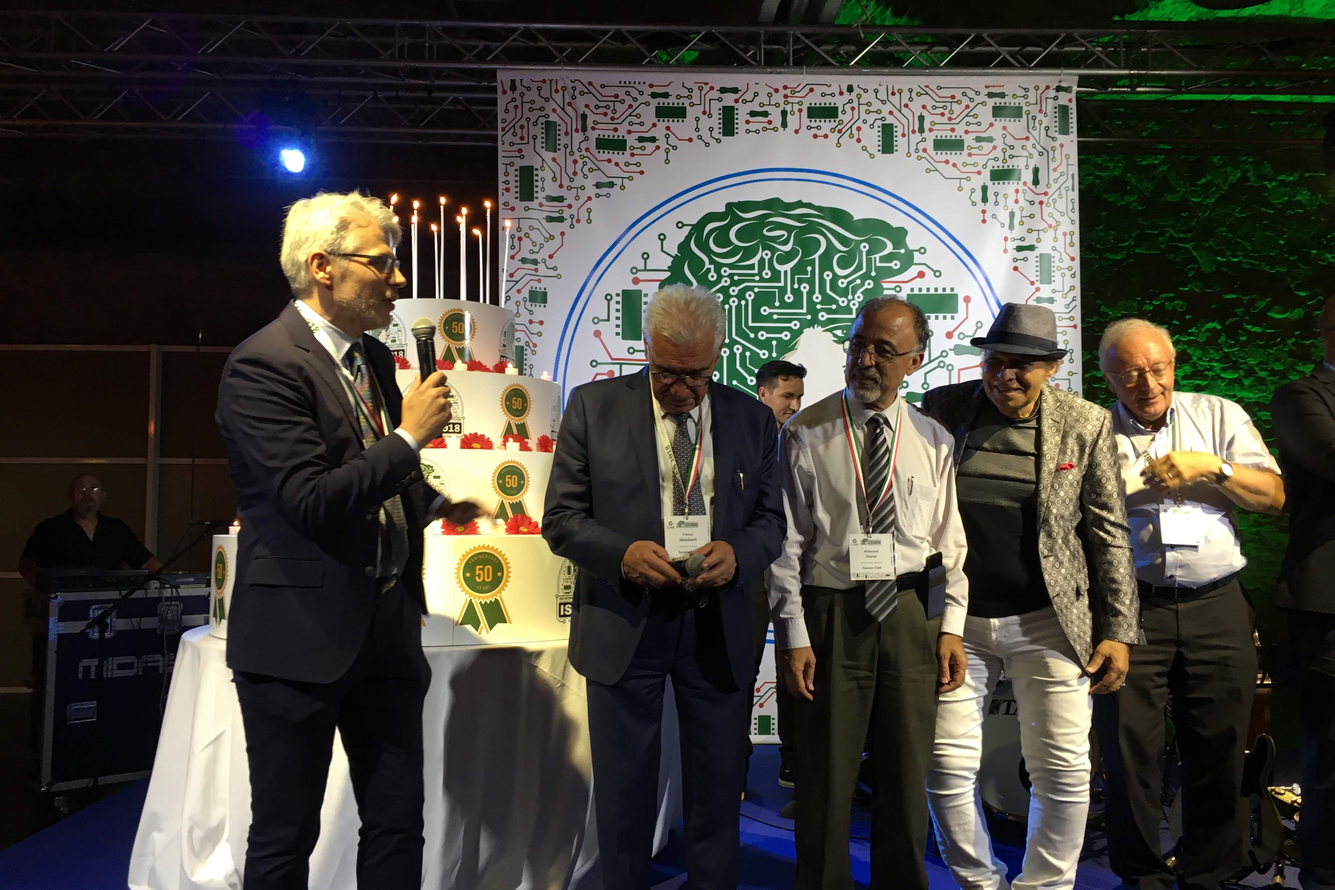
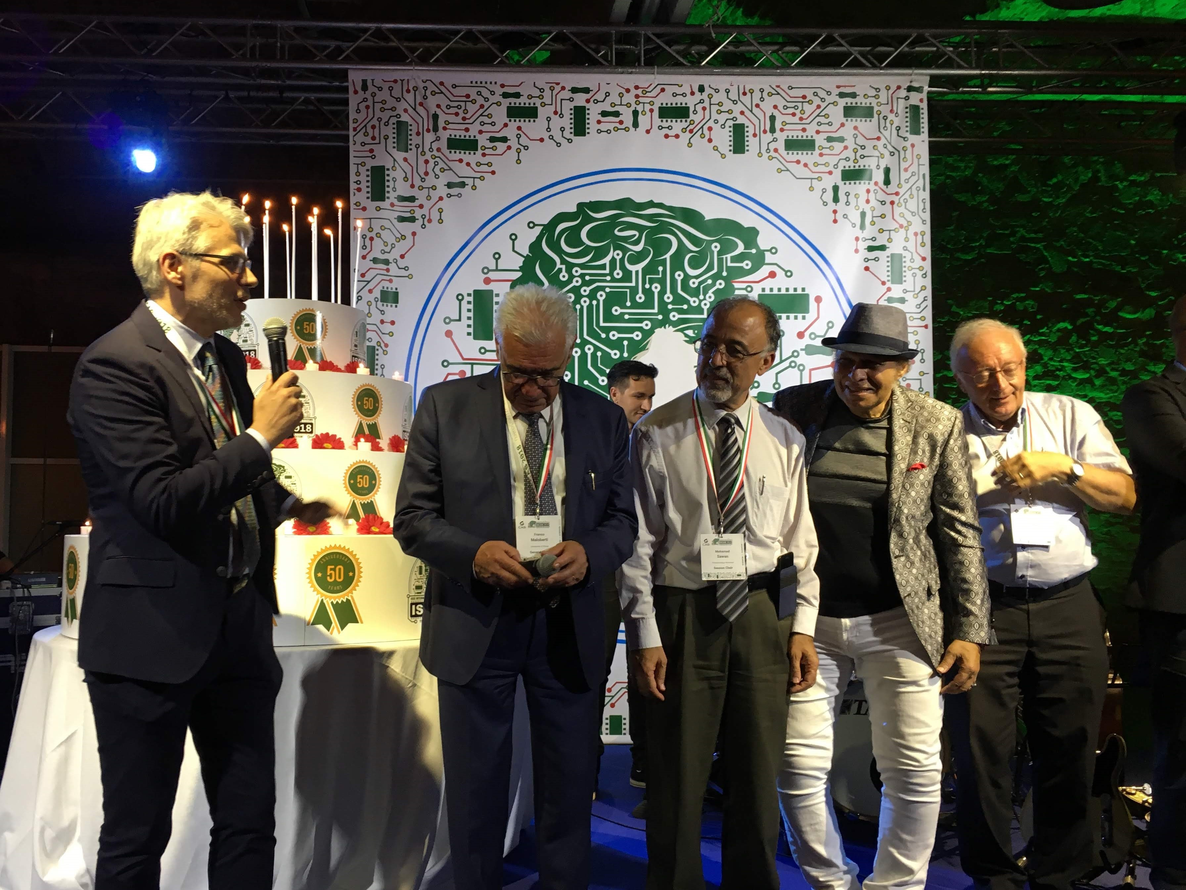
7327

diff --git a/index.html b/index.html
@@ -740,7 +740,7 @@ device. One effective way to eliminate the anonymity is to build a random oracle
 									<td><img src="images\gallery\IMG_73241.jpg"  width="250" height="188" onmouseover="mouseover(this)" onmouseout="mouseout(this)"/></td>
 									<td><img src="images\gallery\hhh.jpg"  width="250" height="188" onmouseover="mouseover(this)" onmouseout="mouseout(this)"/></td>
 									<td><img src="images\gallery\3mt_ntu11.jpg" width="250" height="188" onmouseover="mouseover(this)" onmouseout="mouseout(this)"/></td>
-									<td><img src="images\gallery\IMG_73241.jpg"  width="250" height="188" onmouseover="mouseover(this)" onmouseout="mouseout(this)"/></td>
+									<td><img src="images\gallery\IMG_7327.jpg"  width="250" height="188" onmouseover="mouseover(this)" onmouseout="mouseout(this)"/></td>
 									<td><img src="images\gallery\IMG_73241.jpg" width="250" height="188" onmouseover="mouseover(this)" onmouseout="mouseout(this)"/></td>
 							    </tr>
 						   </table>
